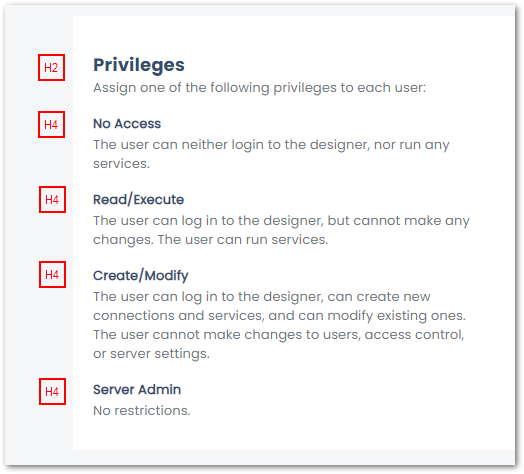
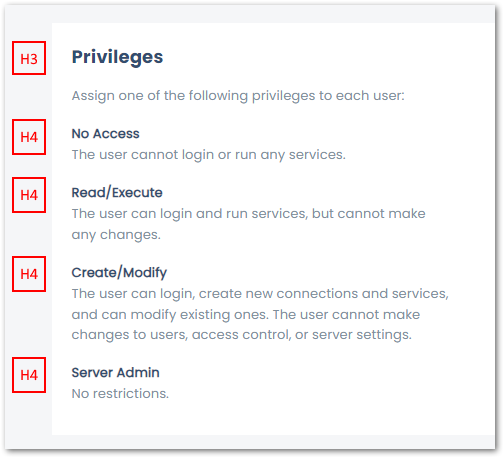
yunIO Style Guide Layout
draft

diff --git a/content/_en/editorial-guide/yunio-style-guide/layout.md b/content/_en/editorial-guide/yunio-style-guide/layout.md
@@ -1,0 +1,181 @@
+---
+layout: page
+title: Layout
+description: LAyout
+parent: editorial-guide
+parent: yunio-style-guide
+weight: 7
+permalink: /:collection/:path
+lang: en_GB
+---
+
+
+### Menu Container
+
+The following rules apply to the menu containers:
+- containers are left-justified at the same horizontal point as the page title (1).
+- space between container and text (top and left) is 20px, see definition in `main.css`.
+- every container includes an H3 headline (2).
+- the last containers on a page level evenly (3).
+
+<!---
+	```css
+	main h3,
+	main p {
+		padding-left: 20px;
+	}
+
+	main h3 {
+		margin: 20px 0 0;
+	}
+	```
+-->
+
+Example:
+
+![Containers](/img/content/help_concept/yunIO/even-containers.png){:class="img-responsive"}
+
+### Headlines
+
+Menu containers use the following headlines
+- H3 for section titles (mandatory for every menu container)
+- H4 headlines in descriptions (used for descriptions of dropdown menu options)
+
+Example:
+
+![Headlines](/img/content/help_concept/yunIO/new-h4-definition.png){:class="img-responsive" width="400px"}
+
+Definition in `index.css`:
+
+<table>
+  <tr>
+    <th>H3</th>
+    <th>H4</th>
+  </tr>
+  <tr>
+    <td><pre>
+.h3 {
+   font-family: poppinsBold;
+   color: var(--dark_blue);
+   font-size: 18px;
+}	</pre></td>
+    <td><pre>
+.h4 { 
+   margin-bottom: 0;
+   color: var(--dark_blue); 
+   
+}
+</pre></td>
+  </tr>
+</table>
+
+
+### Descriptions
+
+Color: `--text_help_gray`<br>
+Text size:
+
+Definition in `details-grid.css`:
+
+```css
+.details-grid p {
+    line-height: 19px;
+    letter-spacing: 0.01em;
+    color: var(--table_gray);
+}
+
+.details-grid-description {
+    margin: 0 15px 0 0;
+    max-width: 380px;
+}
+```
+
+### Input Fields
+
+Color: `--text_help_gray`<br>
+Text size: `11px`
+
+Definition in `details-grid.css`:
+
+```css
+.details-grid-fields-header {
+    font-weight: 500;
+    font-size: 11px;
+    line-height: 16px;
+    letter-spacing: 0.01em;
+    color: var(--text_help_gray);
+}
+```
+
+### Text Input
+
+
+### Buttons
+
+<!---
+.main-header-button,
+.delete-header-button {
+    display: inline;
+    vertical-align: middle;
+    padding: 12px 42px;
+    border-radius: 4px;
+    background: var(--dark_blue);
+    color: var(--white);
+    font-weight: bold;
+}
+
+
+.delete-header-button {
+    height: 45px;
+    margin-right: 5px;
+    padding: 12px 25px;
+    background: transparent;
+    color: var(--dark_blue);
+    border: 1px solid var(--dark_blue);
+}
+
+.cancel-header-button {
+    padding: 12px 25px;
+    height: 45px;
+    margin-right: 5px;
+}
+-->
+
+
+Definition of menu buttons:
+```css
+.button {
+    background: var(--dark_blue);
+    color: var(--white);
+    font-size: 13px;
+    padding: 10px 30px;
+}
+```
+
+
+### Dropdowns
+
+font-size: 13px;
+
+### Checkboxes
+
+The following rules apply to checkboxes:
+- labels are left of the checkbox
+- labels align to the center of the checkbox
+- the text color of the label is `--text_help_gray`
+- the text size of the label is `11px`
+
+Example:
+
+![Checkboxes](/img/content/help_concept/yunIO/checkbox.png){:class="img-responsive"}
+
+
+
+### Tables
+```css
+table {
+    color: var(--table_gray);
+    background: var(--white);
+    border-collapse: collapse;
+}
+```

diff --git a/content/_en/editorial-guide/yunio-style-guide/about.md b/content/_en/editorial-guide/yunio-style-guide/about.md
@@ -31,15 +31,6 @@ The UI Style Guide of Theobald Software addresses the following topics:
 - Layout including CSS definitions for headers and margins
 
 
-``` css
-<!-- css definition for H4 headers -->
-h4 { 
-	margin-bottom: 0;
-	color: var(--dark_blue); 
-},
-```
-![Capture](/img/content/help_concept/yunIO/new-h4-definition.png){:class="img-responsive"}
-
 ### How to use the UI Style Guide
 It is advisable to read the whole document at least once and then use it as a reference and search for an item, if needed. 
 Ideas, changes and extensions are welcome and should be added to the Style Guide in cooperation with a technical writer.
